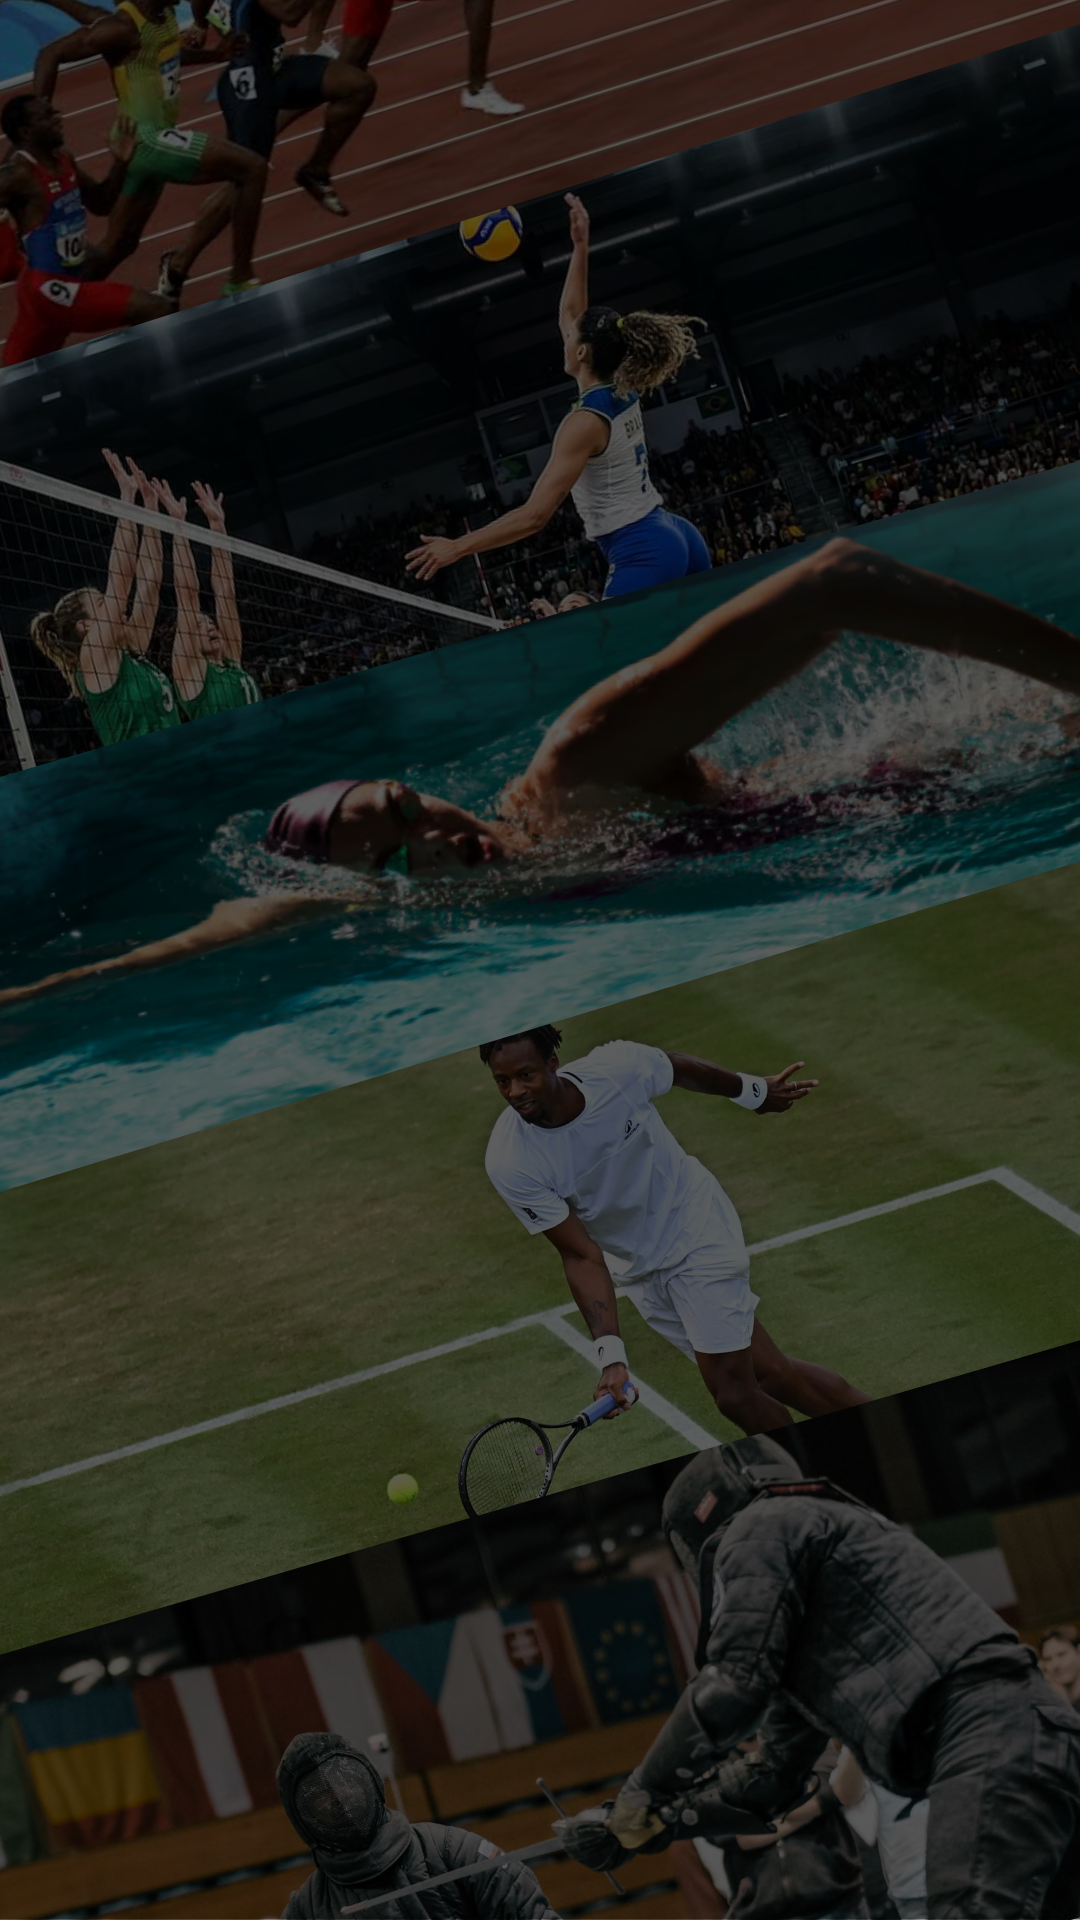
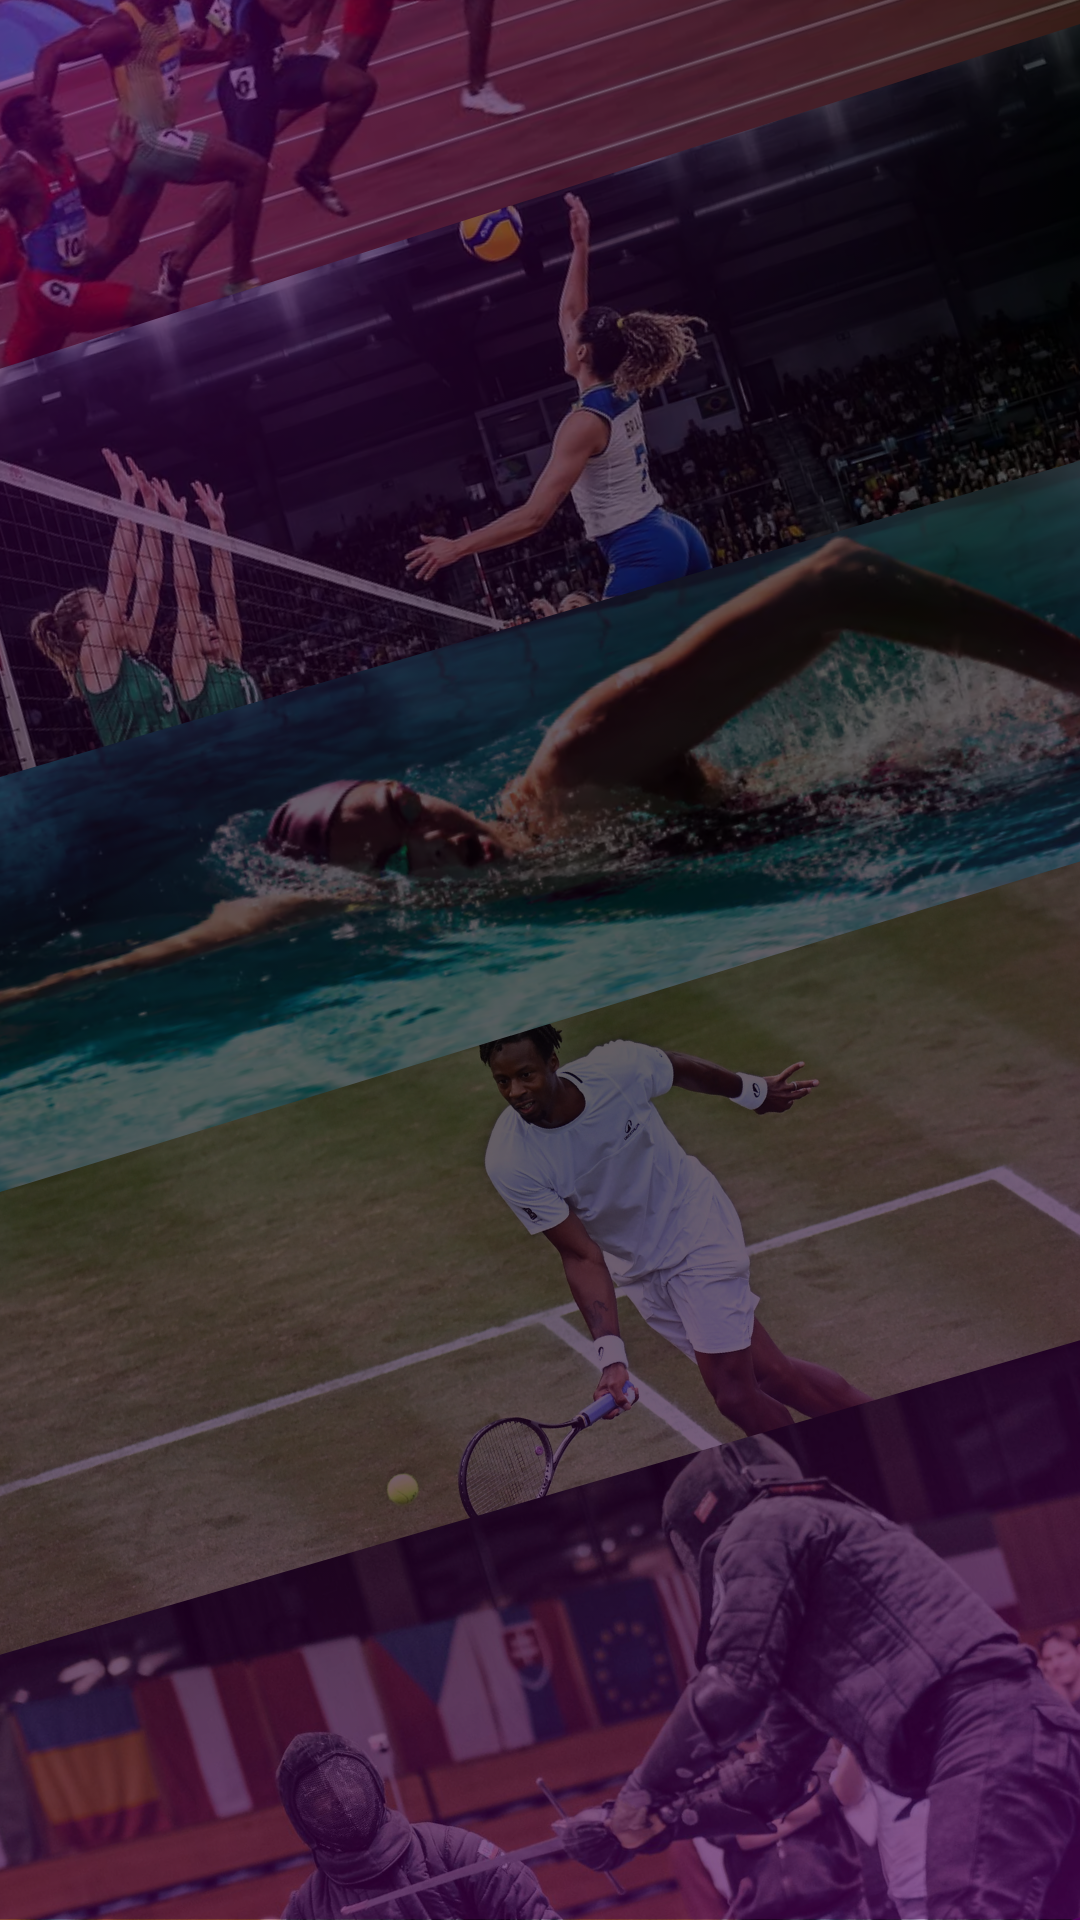
added go_router

diff --git a/lib/app.dart b/lib/app.dart
@@ -1,14 +1,31 @@
 import 'package:flutter/material.dart';
+import 'package:go_router/go_router.dart';
+import 'package:proyecto_canario/pages/home_page.dart';
 import 'package:proyecto_canario/pages/main_page.dart';
+import 'package:proyecto_canario/pages/porfolio_page.dart';
+
+final GoRouter _router = GoRouter(
+  initialLocation: '/',
+  routes: [
+    ShellRoute(
+      builder: (context, state, child) => 
+        MainPage(location: state.uri.path, child: child),
+      routes: [
+        GoRoute(path: '/', builder: (context, state) => const HomePage()),
+        GoRoute(path: '/porfolio', builder: (context, state) => const PorfolioPage(),)
+      ]
+    )
+  ]
+);
 
 class MyApp extends StatelessWidget {
   const MyApp({super.key});
 
   @override
   Widget build(BuildContext context) {
-    return MaterialApp(
+    return MaterialApp.router(
       title: "Proyecto Canario",
-      home: MainPage(),
+      routerConfig: _router,
     );
   }
 }
